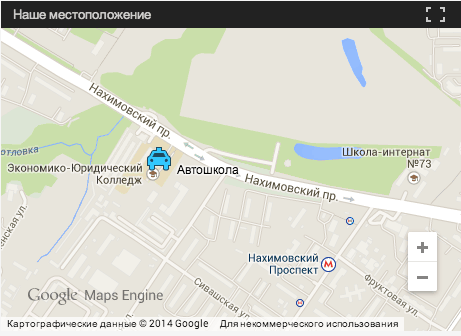
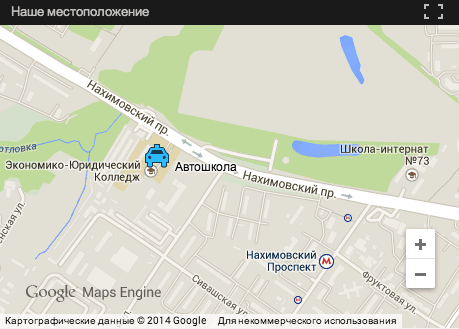
пофиксил размытость картики карты

diff --git a/www/application/views/main/index.php b/www/application/views/main/index.php
@@ -213,7 +213,7 @@
                 </div>
             </div>
             <div class="span6" id="google_map">
-                <img style="cursor: pointer" rel="tooltip" title="Кликните для подгрузки &laquo;живой&raquo; карты ;)" height="100%" width="100%" src="<?=URL::site('public/img/main/map.png')?>" alt="google maps"/>
+                <img style="cursor: pointer" rel="tooltip" title="Кликните для подгрузки &laquo;живой&raquo; карты ;)" src="<?=URL::site('public/img/main/map.png')?>" alt="google maps"/>
             </div>
         </div>
     </div>
